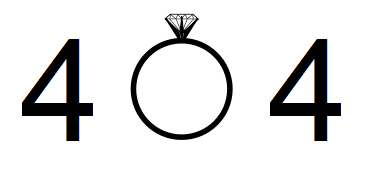
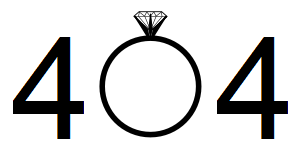
change

Changed region(s): [[0.33, 0.0516, 0.69, 0.9032], [0.72, 0.2065, 0.96, 0.9032], [0.03, 0.2065, 0.3, 0.9032]]

diff --git a/ring/style.css b/ring/style.css
@@ -1,11 +1,11 @@
 body {
   font-size: 1.0em;
+  text-align: center;
 }
 
 #notfound {
   margin: 10px 10px;
   text-align: center;
-  width: 500px;
   font: normal 1.0em Arial, Helvetica, sans-serif;
 }
 
